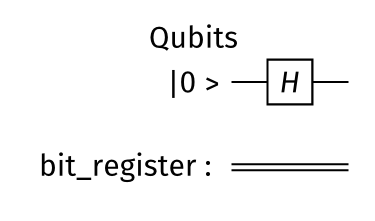
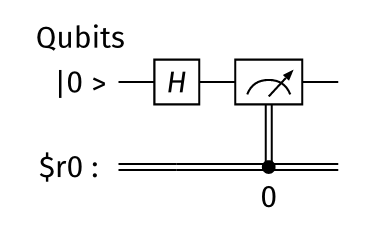
roqoqo works

Changed region(s): [[0.0904, 0.1086, 0.9342, 0.8959], [0.0904, 0.1086, 0.3616, 0.2172], [0.1507, 0.2986, 0.3014, 0.4344]]

diff --git a/src/main.rs b/src/main.rs
@@ -2,6 +2,8 @@ use rand::prelude::*;
 use roqoqo::{Circuit, operations::*};
 use roqollage;
 use roqoqo_qasm::*;
+use roqoqo_quest::Backend;
+use roqoqo::prelude::*;
 
 use std::fs::File;
 use std::io::prelude::*;
@@ -27,8 +29,9 @@ fn shor(number: u32) -> u32 {
     }
 
     let mut circuit = Circuit::new();
-    circuit += DefinitionBit::new("bit_register".to_string(), 2, false);
-    circuit.add_operation(Hadamard::new(0));
+    circuit += DefinitionBit::new("$r0".to_string(), 1, true);
+    circuit += Hadamard::new(0);
+    circuit += MeasureQubit::new(0, "$r0".to_string(), 0);
 
     let _ = roqollage::circuit_to_image(&circuit, None, roqollage::RenderPragmas::All, None, None)
         .expect("error")
@@ -45,6 +48,12 @@ fn shor(number: u32) -> u32 {
     let _ = file 
         .expect("error")
         .write_all(openqasm.as_bytes());
+
+    let simulate = Backend::new(1, None);
+    
+    let res = simulate.run_circuit(&circuit).unwrap();
+
+    println!("{:?}",res);
 
     return 0;
 }
